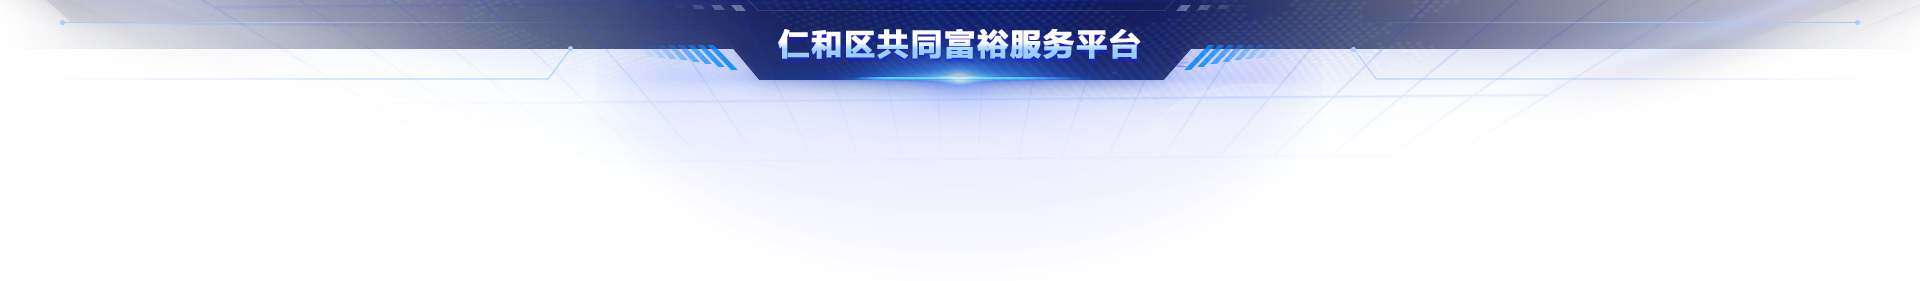
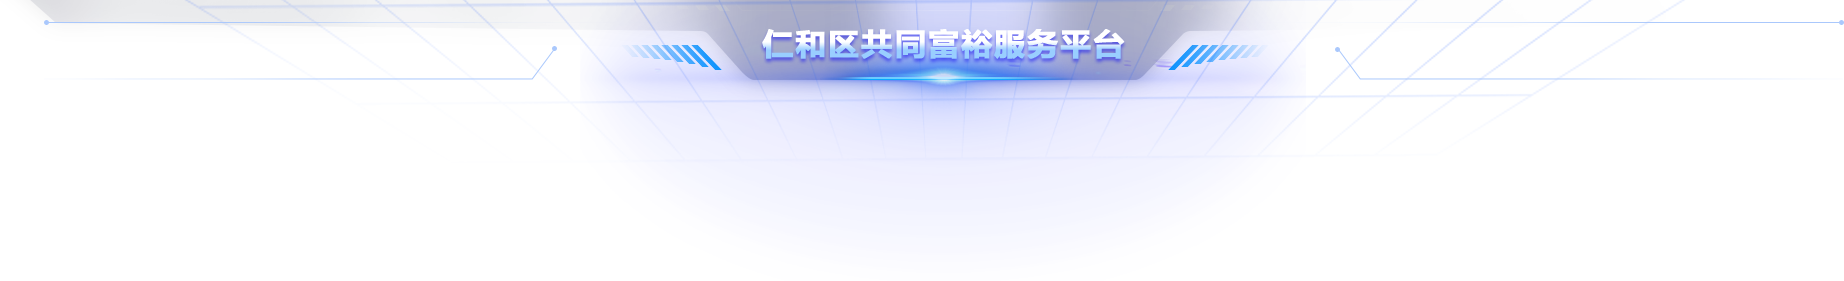
res完善

Changed region(s): [[0.0309, 0.0, 1.0, 0.3132], [0.711, 0.2562, 0.7419, 0.2847]]

diff --git a/src/views/res/dashboard/component/scss/box.scss b/src/views/res/dashboard/component/scss/box.scss
@@ -13,14 +13,17 @@ body {
   text-align: center;
   color: #eee;
   border-radius: 0.3em;
-  background-color: rgba(0, 40, 195, 0.7);
-  box-shadow: #2d4fb3 0 0 25px 3px inset;
+  // background-image:url('/img/res/border.png');
+  // background-size: 100% 100%; 
+  // background-repeat: no-repeat;
+  background-color: rgba(10, 32, 37, 0.4);
+  box-shadow: #3e3bec 0 0 0.4rem 0.2rem inset;
 }
 
 .target-header {
   text-align: left;
   height: 2.5rem;
-  background-image: linear-gradient(to top, #204de080, blue);
+  background-image: linear-gradient(to right, #0d0a7b, #2723ca);
   border-radius: 0em;
 }
 
@@ -62,7 +65,9 @@ body {
 }
 
 .target-title {
-  background-image: radial-gradient(circle, #daeef3 20%, #00aaff);
+  background-image: radial-gradient(circle, #daeef3 20%, white);
+  //background-image: radial-gradient(circle, #daeef3 20%, #00aaff);
+  //color: white;
   font-weight: bold;
   background-clip: text;
   color: transparent;

diff --git a/src/views/res/dashboard/component/barPeopleGdp.vue b/src/views/res/dashboard/component/barPeopleGdp.vue
@@ -173,7 +173,7 @@ export default {
           
           .transform({ type: 'dodgeX' })
           .label({
-            text: '生产总值',
+            text: '人均生产总值',
             position: 'top',
             dy: -12,
             fill: '#fff',
